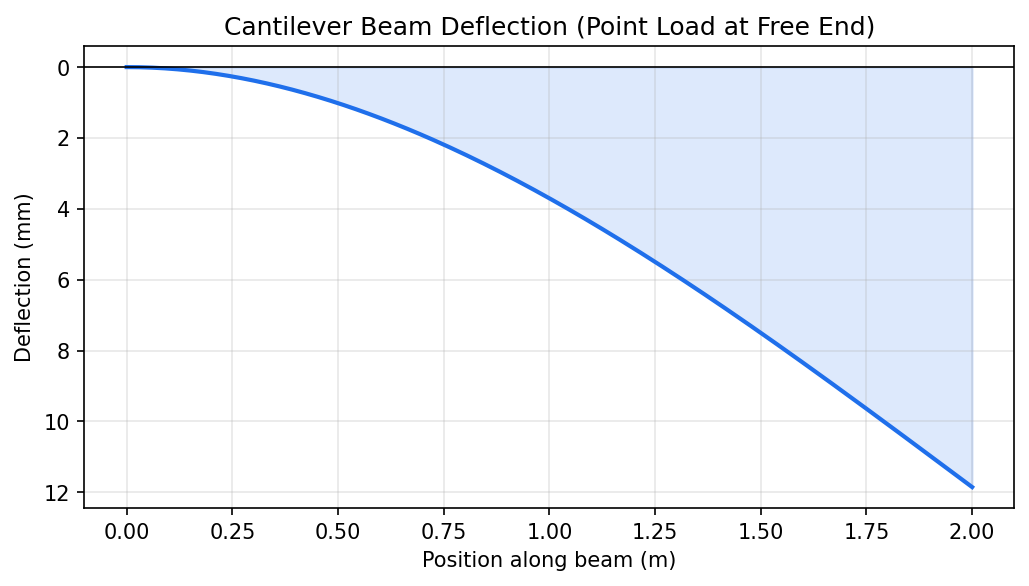
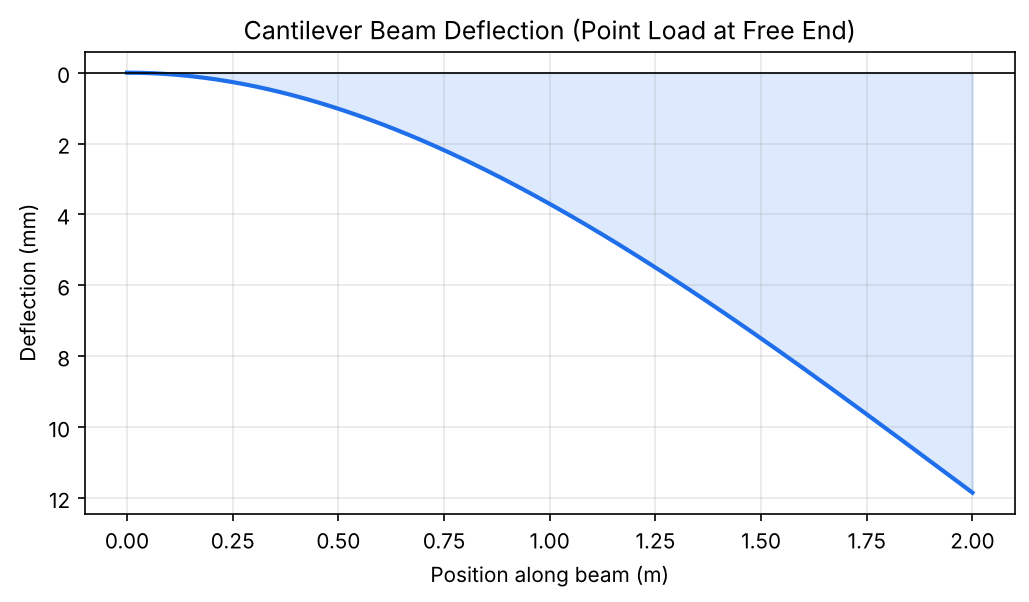
Add fatigue module: endurance limit, Marin factors, Goodman/Soderberg/Gerber
Estimates the corrected endurance limit (surface, size and load factors),
splits a cycling stress into alternating and mean parts, and returns the
fatigue safety factor for the chosen criterion plus a first-cycle yield
check. 13 tests checked against hand calculations; theory.md and the
README module table updated.

Claude-Session: https://claude.ai/code/session_01X5nQ6neESnx7vZA7Mp4vo5

diff --git a/mech_toolkit/fatigue.py b/mech_toolkit/fatigue.py
@@ -1,0 +1,175 @@
+"""
+fatigue.py
+
+Fatigue life check for parts under repeated (cyclic) loading.
+
+A shaft, spring or bracket that sees a load go up and down millions of
+times can crack at a stress well below its yield strength. This module
+estimates the material's endurance limit, corrects it for the real part
+(surface finish, size, type of loading), and then checks a fluctuating
+stress against the classic fatigue failure lines:
+
+    - Goodman   (the usual design choice, slightly conservative)
+    - Soderberg (most conservative, uses yield instead of ultimate)
+    - Gerber    (parabola, closest to test data for ductile metals)
+
+It also reports the first-cycle yield safety factor, since a part can
+pass the fatigue check and still yield on the very first load cycle.
+
+The endurance-limit estimate (Se' = 0.5 * Sut) is for steels. Aluminum
+and other non-ferrous metals have no true endurance limit, so pass a
+measured fatigue strength via `endurance_limit=` for those.
+
+Reference: Shigley's Mechanical Engineering Design, Ch. 6 (Fatigue).
+"""
+
+import math
+from dataclasses import dataclass
+
+from mech_toolkit.materials_database import Material, get_material
+
+
+# Surface factor ka = a * Sut^b, Sut in MPa (Shigley Table 6-2).
+SURFACE_FINISH = {
+    "ground": (1.58, -0.085),
+    "machined": (4.51, -0.265),
+    "cold-drawn": (4.51, -0.265),
+    "hot-rolled": (57.7, -0.718),
+    "as-forged": (272.0, -0.995),
+}
+
+# Load factor kc (Shigley Eq. 6-26).
+LOAD_TYPE = {"bending": 1.0, "axial": 0.85, "torsion": 0.59}
+
+CRITERIA = ("goodman", "soderberg", "gerber")
+
+
+@dataclass
+class FatigueResult:
+    alternating_stress: float   # Pa, sigma_a
+    mean_stress: float          # Pa, sigma_m
+    endurance_limit: float      # Pa, corrected Se
+    criterion: str
+    factor_of_safety: float     # fatigue safety factor n_f
+    yield_factor_of_safety: float  # first-cycle yield n_y
+
+    @property
+    def is_safe(self) -> bool:
+        return min(self.factor_of_safety, self.yield_factor_of_safety) >= 1.0
+
+    def report(self) -> str:
+        return "\n".join([
+            "Fatigue Analysis",
+            "=" * 40,
+            f"Alternating stress:   {self.alternating_stress/1e6:.1f} MPa",
+            f"Mean stress:          {self.mean_stress/1e6:.1f} MPa",
+            f"Endurance limit Se:   {self.endurance_limit/1e6:.1f} MPa",
+            f"Criterion:            {self.criterion.title()}",
+            f"Fatigue FoS:          {self.factor_of_safety:.2f}",
+            f"Yield FoS:            {self.yield_factor_of_safety:.2f}",
+            f"Status:               {'SAFE' if self.is_safe else 'FAILS'}",
+        ])
+
+
+def _lookup(table: dict, key: str, what: str):
+    k = key.strip().lower()
+    if k not in table:
+        raise ValueError(f"Unknown {what} '{key}'. Use one of: {', '.join(table)}")
+    return table[k]
+
+
+def uncorrected_endurance_limit(ultimate_strength: float) -> float:
+    """Se' for steel: 0.5 * Sut, capped at 700 MPa when Sut > 1400 MPa."""
+    if ultimate_strength <= 0:
+        raise ValueError("ultimate_strength must be positive.")
+    return min(0.5 * ultimate_strength, 700e6)
+
+
+def surface_factor(ultimate_strength: float, finish: str = "machined") -> float:
+    """Marin surface factor ka = a * Sut^b (Sut converted to MPa)."""
+    a, b = _lookup(SURFACE_FINISH, finish, "surface finish")
+    return a * (ultimate_strength / 1e6) ** b
+
+
+def size_factor(diameter: float = None, load_type: str = "bending") -> float:
+    """Marin size factor kb for a round part (diameter in m). 1.0 for axial or no diameter."""
+    if diameter is None or load_type.strip().lower() == "axial":
+        return 1.0
+    d_mm = diameter * 1e3
+    if d_mm <= 0:
+        raise ValueError("diameter must be positive.")
+    if d_mm <= 2.79:
+        return 1.0
+    if d_mm <= 51:
+        return 1.24 * d_mm ** -0.107
+    if d_mm <= 254:
+        return 1.51 * d_mm ** -0.157
+    raise ValueError("Size factor correlation only covers diameters up to 254 mm.")
+
+
+def corrected_endurance_limit(ultimate_strength: float, finish: str = "machined",
+                              diameter: float = None, load_type: str = "bending") -> float:
+    """Se = ka * kb * kc * Se'."""
+    kc = _lookup(LOAD_TYPE, load_type, "load type")
+    return (surface_factor(ultimate_strength, finish)
+            * size_factor(diameter, load_type)
+            * kc
+            * uncorrected_endurance_limit(ultimate_strength))
+
+
+def alternating_and_mean(max_stress: float, min_stress: float):
+    """sigma_a = |max - min| / 2, sigma_m = (max + min) / 2."""
+    return abs(max_stress - min_stress) / 2.0, (max_stress + min_stress) / 2.0
+
+
+def fatigue_factor_of_safety(alternating_stress: float, mean_stress: float,
+                             endurance_limit: float, ultimate_strength: float,
+                             yield_strength: float = None,
+                             criterion: str = "goodman") -> float:
+    """Fatigue safety factor n_f for the chosen criterion (load line through the origin)."""
+    sa, sm, se = alternating_stress, mean_stress, endurance_limit
+    crit = criterion.strip().lower()
+    if crit not in CRITERIA:
+        raise ValueError(f"Unknown criterion '{criterion}'. Use one of: {', '.join(CRITERIA)}")
+    if sa < 0:
+        raise ValueError("alternating_stress must be non-negative.")
+    if sm <= 0:
+        # A compressive mean stress doesn't help or hurt in these models:
+        # failure is governed by the alternating stress alone.
+        return math.inf if sa == 0 else se / sa
+    if crit == "goodman":
+        return 1.0 / (sa / se + sm / ultimate_strength)
+    if crit == "soderberg":
+        if yield_strength is None:
+            raise ValueError("Soderberg needs yield_strength.")
+        return 1.0 / (sa / se + sm / yield_strength)
+    # Gerber: n*sa/Se + (n*sm/Sut)^2 = 1, solved for n.
+    if sa == 0:
+        return ultimate_strength / sm
+    r = 2.0 * sm * se / (ultimate_strength * sa)
+    return 0.5 * (ultimate_strength / sm) ** 2 * (sa / se) * (-1.0 + math.sqrt(1.0 + r ** 2))
+
+
+def fatigue_analysis(max_stress: float, min_stress: float,
+                     material="AISI 1045 Steel", finish: str = "machined",
+                     diameter: float = None, load_type: str = "bending",
+                     criterion: str = "goodman",
+                     endurance_limit: float = None) -> FatigueResult:
+    """
+    Full fatigue check for a stress that cycles between min_stress and max_stress (Pa).
+
+    material: a Material, or a name from materials_database
+    finish: 'ground', 'machined', 'cold-drawn', 'hot-rolled', 'as-forged'
+    diameter: round part diameter (m) for the size factor, optional
+    load_type: 'bending', 'axial' or 'torsion'
+    criterion: 'goodman', 'soderberg' or 'gerber'
+    endurance_limit: override the estimated, corrected Se (Pa)
+    """
+    mat = material if isinstance(material, Material) else get_material(material)
+    sut, sy = mat.ultimate_strength, mat.yield_strength
+    se = endurance_limit or corrected_endurance_limit(sut, finish, diameter, load_type)
+    sa, sm = alternating_and_mean(max_stress, min_stress)
+    n_f = fatigue_factor_of_safety(sa, sm, se, sut, sy, criterion)
+    peak = sa + abs(sm)
+    n_y = math.inf if peak == 0 else sy / peak
+    return FatigueResult(sa, sm, se, criterion.strip().lower(), n_f, n_y)

diff --git a/tests/test_fatigue.py b/tests/test_fatigue.py
@@ -1,0 +1,108 @@
+"""
+Tests for fatigue.py. Expected values are hand calculations.
+"""
+
+import math
+import os
+import sys
+
+import pytest
+
+sys.path.insert(0, os.path.join(os.path.dirname(__file__), ".."))
+
+from mech_toolkit import fatigue as f
+
+MPa = 1e6
+
+# Round numbers for the failure criteria:
+#   Se = 200 MPa, Sut = 600 MPa, Sy = 400 MPa, sigma_a = 80 MPa, sigma_m = 120 MPa
+SE, SUT, SY, SA, SM = 200 * MPa, 600 * MPa, 400 * MPa, 80 * MPa, 120 * MPa
+
+
+def test_alternating_and_mean():
+    # Cycling 200 to -40 MPa: sigma_a = 120, sigma_m = 80
+    sa, sm = f.alternating_and_mean(200 * MPa, -40 * MPa)
+    assert math.isclose(sa, 120 * MPa)
+    assert math.isclose(sm, 80 * MPa)
+
+
+def test_uncorrected_endurance_limit_and_cap():
+    assert math.isclose(f.uncorrected_endurance_limit(625 * MPa), 312.5 * MPa)
+    # Above Sut = 1400 MPa the estimate caps at 700 MPa
+    assert math.isclose(f.uncorrected_endurance_limit(1600 * MPa), 700 * MPa)
+
+
+def test_surface_factor_machined_1045():
+    # ka = 4.51 * 625^-0.265 = 0.8190
+    assert math.isclose(f.surface_factor(625 * MPa, "machined"), 0.8190, rel_tol=1e-3)
+
+
+def test_size_factor_ranges():
+    # d = 30 mm: kb = 1.24 * 30^-0.107 = 0.8618
+    assert math.isclose(f.size_factor(0.030), 0.8618, rel_tol=1e-3)
+    # d = 100 mm: kb = 1.51 * 100^-0.157 = 0.7328
+    assert math.isclose(f.size_factor(0.100), 0.7328, rel_tol=1e-3)
+    assert f.size_factor(0.030, "axial") == 1.0
+    assert f.size_factor(None) == 1.0
+
+
+def test_corrected_endurance_limit_1045_shaft():
+    # Se = 0.8190 * 0.8617 * 1.0 * 312.5 MPa = 220.5 MPa
+    se = f.corrected_endurance_limit(625 * MPa, "machined", 0.030, "bending")
+    assert math.isclose(se, 220.5 * MPa, rel_tol=1e-3)
+
+
+def test_goodman():
+    # n = 1 / (80/200 + 120/600) = 1 / 0.6 = 1.667
+    n = f.fatigue_factor_of_safety(SA, SM, SE, SUT, SY, "goodman")
+    assert math.isclose(n, 5 / 3, rel_tol=1e-9)
+
+
+def test_soderberg():
+    # n = 1 / (80/200 + 120/400) = 1 / 0.7 = 1.4286
+    n = f.fatigue_factor_of_safety(SA, SM, SE, SUT, SY, "soderberg")
+    assert math.isclose(n, 1 / 0.7, rel_tol=1e-9)
+
+
+def test_gerber():
+    # r = 2*120*200/(600*80) = 1, n = 0.5 * 5^2 * 0.4 * (sqrt(2) - 1) = 2.0711
+    n = f.fatigue_factor_of_safety(SA, SM, SE, SUT, SY, "gerber")
+    assert math.isclose(n, 5 * (math.sqrt(2) - 1), rel_tol=1e-9)
+    # It lands exactly on the Gerber parabola
+    assert math.isclose(n * SA / SE + (n * SM / SUT) ** 2, 1.0, rel_tol=1e-9)
+
+
+def test_criteria_ordering():
+    # Soderberg is most conservative, Gerber least
+    ns = [f.fatigue_factor_of_safety(SA, SM, SE, SUT, SY, c)
+          for c in ("soderberg", "goodman", "gerber")]
+    assert ns == sorted(ns)
+
+
+def test_fully_reversed_ignores_mean_criterion():
+    # sigma_m = 0: every criterion gives n = Se / sigma_a = 2.5
+    for c in f.CRITERIA:
+        assert math.isclose(f.fatigue_factor_of_safety(SA, 0, SE, SUT, SY, c), 2.5)
+
+
+def test_full_analysis_reports_yield_check():
+    # Override Se so the numbers match the hand calc above.
+    # 1045: Sy = 375 MPa. Peak = 80 + 120 = 200 MPa, n_y = 1.875
+    result = f.fatigue_analysis(200 * MPa, 40 * MPa, "AISI 1045 Steel",
+                                endurance_limit=SE)
+    assert math.isclose(result.alternating_stress, SA)
+    assert math.isclose(result.mean_stress, SM)
+    # Goodman with Sut = 625 MPa: 1 / (0.4 + 0.192) = 1.689
+    assert math.isclose(result.factor_of_safety, 1 / (0.4 + 120 / 625), rel_tol=1e-9)
+    assert math.isclose(result.yield_factor_of_safety, 1.875, rel_tol=1e-9)
+    assert result.is_safe
+    assert "Goodman" in result.report()
+
+
+def test_bad_inputs():
+    with pytest.raises(ValueError):
+        f.surface_factor(625 * MPa, "polished-ish")
+    with pytest.raises(ValueError):
+        f.fatigue_factor_of_safety(SA, SM, SE, SUT, SY, "morrow")
+    with pytest.raises(ValueError):
+        f.fatigue_factor_of_safety(SA, SM, SE, SUT, None, "soderberg")

diff --git a/mech_toolkit/__init__.py b/mech_toolkit/__init__.py
@@ -4,7 +4,7 @@ Mechanical Engineering Toolkit
 
 A Python package for common mechanical engineering hand calculations:
 beam deflection and stress, torsion and shear, gear trains, thermal
-expansion and heat transfer, bearing life, column buckling, unit conversion, and a
+expansion and heat transfer, bearing life, column buckling, fatigue, unit conversion, and a
 material property database.
 
 Quick start:
@@ -30,6 +30,7 @@ from mech_toolkit import (
     materials_database,
     bearing_life,
     column_buckling,
+    fatigue,
     plotting,
 )
 
@@ -42,5 +43,6 @@ __all__ = [
     "materials_database",
     "bearing_life",
     "column_buckling",
+    "fatigue",
     "plotting",
 ]

diff --git a/README.md b/README.md
@@ -154,6 +154,7 @@ Every function has a docstring with its units. `help(module)` lists them all.
 | `thermodynamics` | Linear, area and volumetric expansion, thermal stress in constrained members, ideal gas law, conduction and convection |
 | `bearing_life` | L10 basic rating life per ISO 281 for ball and roller bearings, solved in either direction |
 | `column_buckling` | Critical load for four end conditions, Euler for slender columns and J.B. Johnson for intermediate ones, switching at the transition slenderness ratio |
+| `fatigue` | Endurance limit with Marin surface, size and load factors, then Goodman, Soderberg or Gerber safety factor for a fluctuating stress, plus a first-cycle yield check |
 | `materials_database` | E, yield and ultimate strength, density, Poisson's ratio and thermal expansion coefficient for common steels, aluminums, titanium and more |
 | `unit_converter` | Length, force, stress and pressure, torque, temperature, power |
 | `plotting` | Deflection curves, shear and moment diagrams, stress-strain curves, gear schematics (matplotlib) |
@@ -170,6 +171,7 @@ Derivations and references for every formula are in [`docs/theory.md`](docs/theo
 
 - Beam formulas use Euler-Bernoulli theory: linear-elastic material, small deflections, and beams that are long compared to their cross section.
 - Buckling assumes a straight, concentrically loaded, prismatic column. Real columns are never perfectly straight, so use a generous factor of safety and the recommended design K values listed in the theory doc.
+- The fatigue endurance-limit estimate (`0.5 * Sut`) is for steels. Aluminum has no true endurance limit, so pass a measured fatigue strength for it.
 - Material properties are typical handbook values. For a real design, confirm them against a certified material data sheet.
 - The stress-strain curve in `plotting.py` is a simplified elastic-perfectly-plastic model for illustration, not real tensile test data.
 

diff --git a/docs/theory.md b/docs/theory.md
@@ -92,6 +92,22 @@ This is the theory behind every calculation in the toolkit, so you (or anyone re
 - Intermediate columns (`KL/r < (KL/r)_t`), J.B. Johnson: `sigma_cr = Sy - (Sy * (KL/r) / (2 * pi))^2 / E`, `P_cr = sigma_cr * A`
 - The two curves meet tangentially at `(KL/r)_t`, where `sigma_cr = Sy / 2`
 
+## Fatigue
+
+- Alternating and mean stress: `sigma_a = |sigma_max - sigma_min| / 2`, `sigma_m = (sigma_max + sigma_min) / 2`
+- Uncorrected endurance limit (steel): `Se' = 0.5 * Sut` for `Sut <= 1400 MPa`, otherwise `Se' = 700 MPa`
+- Corrected endurance limit (Marin): `Se = ka * kb * kc * Se'`
+  - Surface: `ka = a * Sut^b`, `Sut` in MPa. `(a, b)` = ground `(1.58, -0.085)`, machined or cold-drawn `(4.51, -0.265)`, hot-rolled `(57.7, -0.718)`, as-forged `(272, -0.995)`
+  - Size (round, bending or torsion): `kb = 1.24 * d^-0.107` for `2.79 <= d <= 51 mm`, `kb = 1.51 * d^-0.157` for `51 < d <= 254 mm`, `kb = 1` for axial
+  - Load: `kc = 1` bending, `0.85` axial, `0.59` torsion
+- Fatigue safety factor, load line through the origin (`sigma_m > 0`):
+  - Goodman: `1/n = sigma_a/Se + sigma_m/Sut`
+  - Soderberg: `1/n = sigma_a/Se + sigma_m/Sy`
+  - Gerber: `n * sigma_a/Se + (n * sigma_m/Sut)^2 = 1`, so `n = 0.5 * (Sut/sigma_m)^2 * (sigma_a/Se) * (-1 + sqrt(1 + (2 * sigma_m * Se / (Sut * sigma_a))^2))`
+  - For `sigma_m <= 0`: `n = Se / sigma_a`
+- First-cycle yield: `n_y = Sy / (sigma_a + |sigma_m|)`
+- Reference: Shigley's Mechanical Engineering Design, Ch. 6
+
 ## Notes on Assumptions
 
 - Beam formulas assume linear-elastic material behavior, small deflections, and a beam that is long relative to its cross section (Euler-Bernoulli theory, not Timoshenko).
